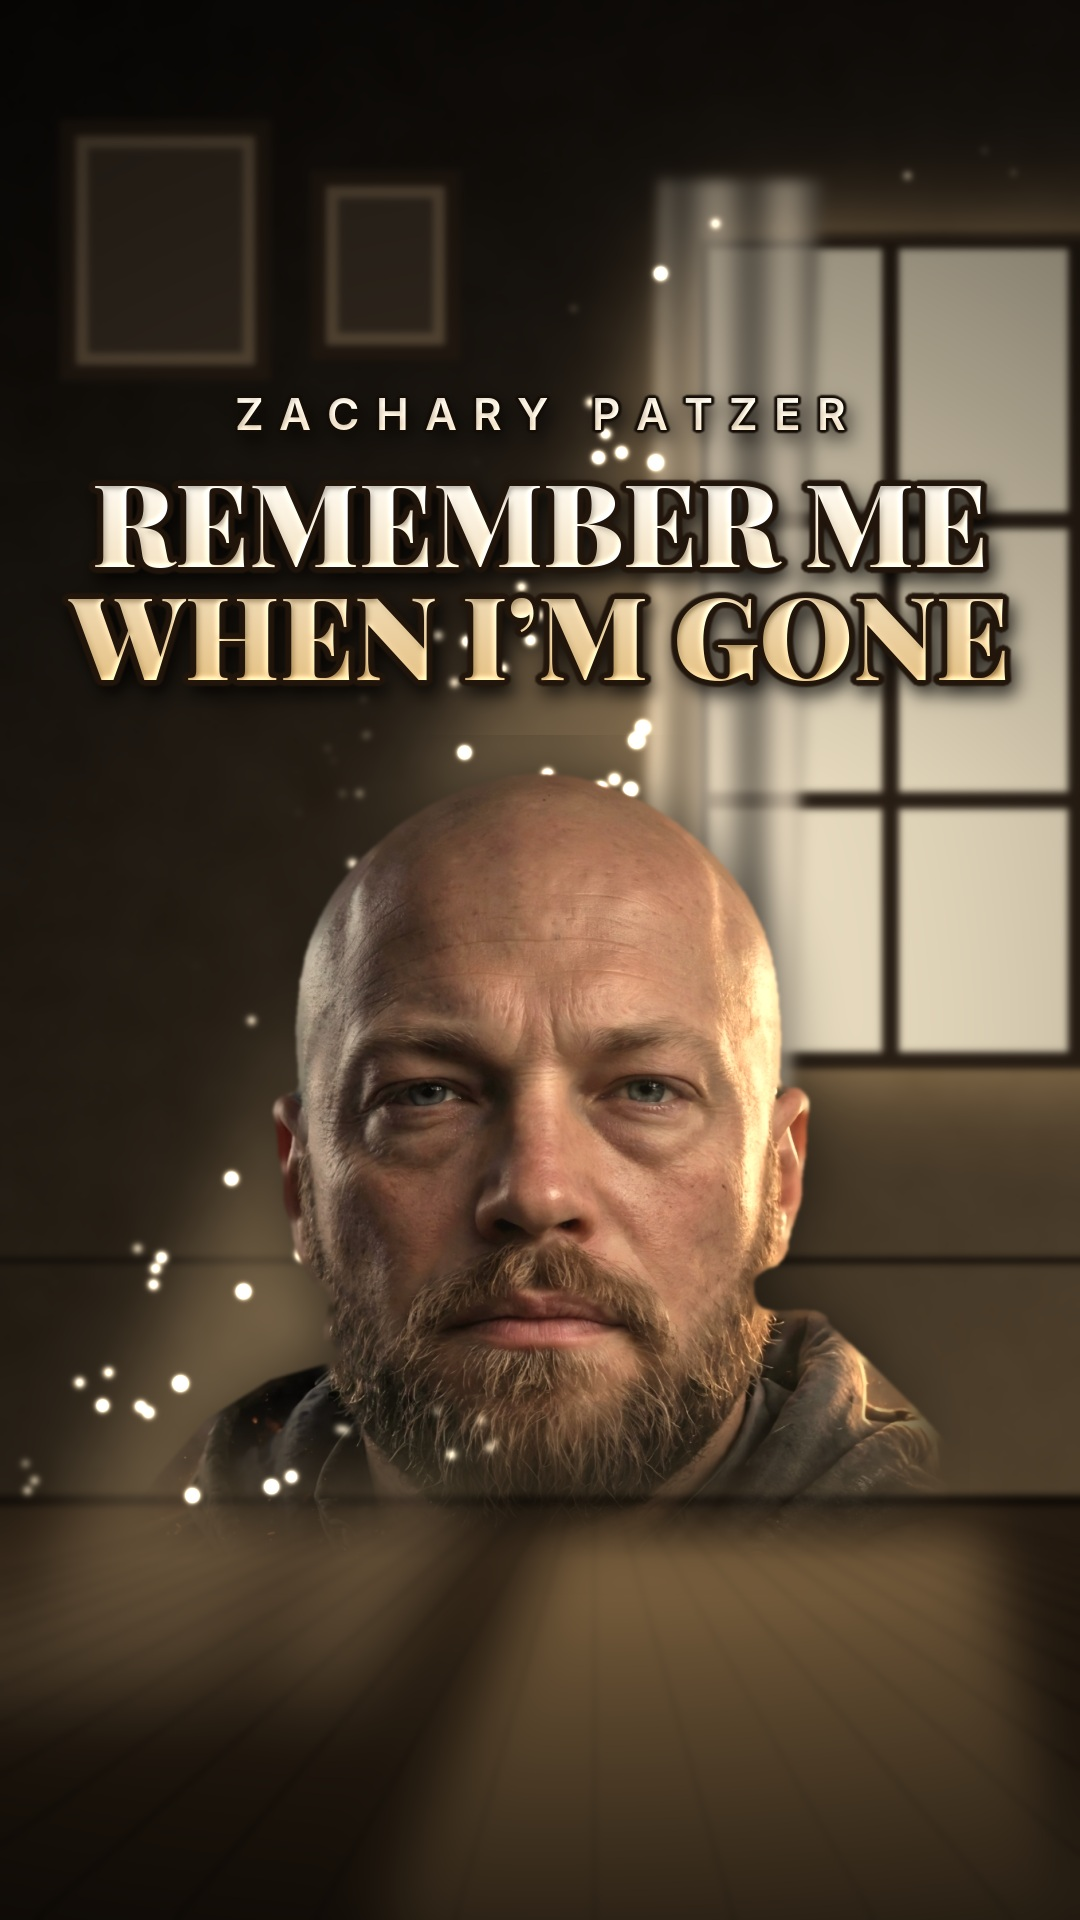
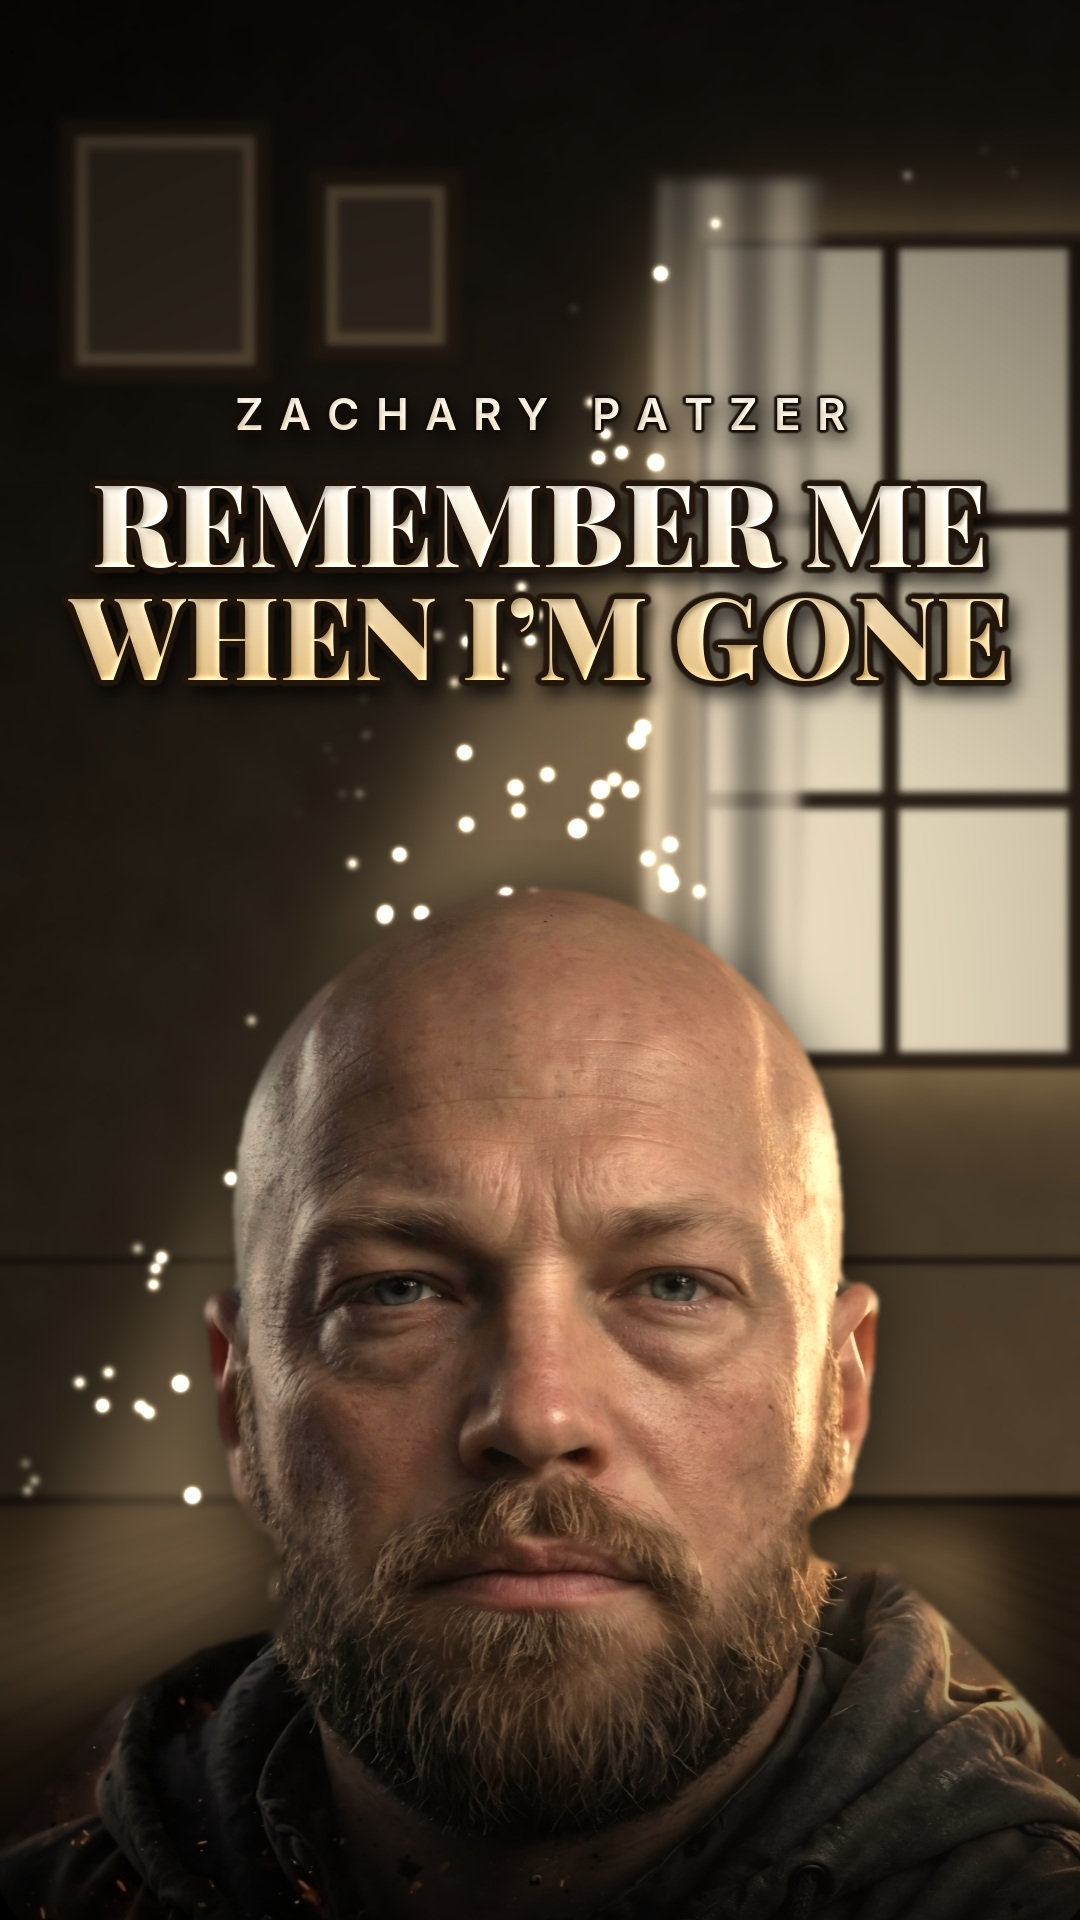
Remember Me When I'm Gone: fix vertical cover blend (bust runs off frame edges)
Claude-Session: https://claude.ai/code/session_01SDQYaYm9Gg5D97GR719CL8

Changed region(s): [[0.0917, 0.375, 1.0, 1.0]]

diff --git a/pipeline/scripts/cover_remember_me_vertical.py b/pipeline/scripts/cover_remember_me_vertical.py
@@ -96,13 +96,13 @@ core = cv2.erode((a > 0.95).astype(np.float32), np.ones((5, 5), np.uint8))
 F = cv2.GaussianBlur(P * core[..., None], (0, 0), 4) / np.maximum(cv2.GaussianBlur(core, (0, 0), 4), 1e-4)[..., None]
 band = cv2.GaussianBlur(cv2.dilate(((a > 0.02) & (a < 0.98)).astype(np.float32), np.ones((7, 7), np.uint8)), (0, 0), 2)[..., None]
 P = P * (1 - band) + F * band
-FS = 860
+FS = 1080
 P = cv2.resize(P, (FS, FS), interpolation=cv2.INTER_AREA); a = cv2.resize(a, (FS, FS), interpolation=cv2.INTER_AREA)
-fx, fy = (W - FS) // 2, 735
+fx, fy = (W - FS) // 2, 840
 P = P * np.array([0.92, 1.0, 1.06], np.float32)
 ry, rx = np.mgrid[0:FS, 0:FS].astype(np.float32)
 P += (bgr('#ffcf8a') * 0.10)[None, None] * np.clip(rx / FS, 0, 1)[..., None]
-a = a * np.clip((FS - 30 - ry) / 170, 0, 1) ** 1.3 * np.clip(np.minimum(rx - 20, FS - 20 - rx) / 90, 0, 1)
+a = cv2.GaussianBlur(a, (0, 0), 1.2)  # soft edge; bust runs off the bottom and sides so nothing is cut mid-body
 reg = img[fy:fy + FS, fx:fx + FS]
 sh = cv2.GaussianBlur(a, (0, 0), 30) * 0.55
 reg = reg * (1 - sh[..., None])
